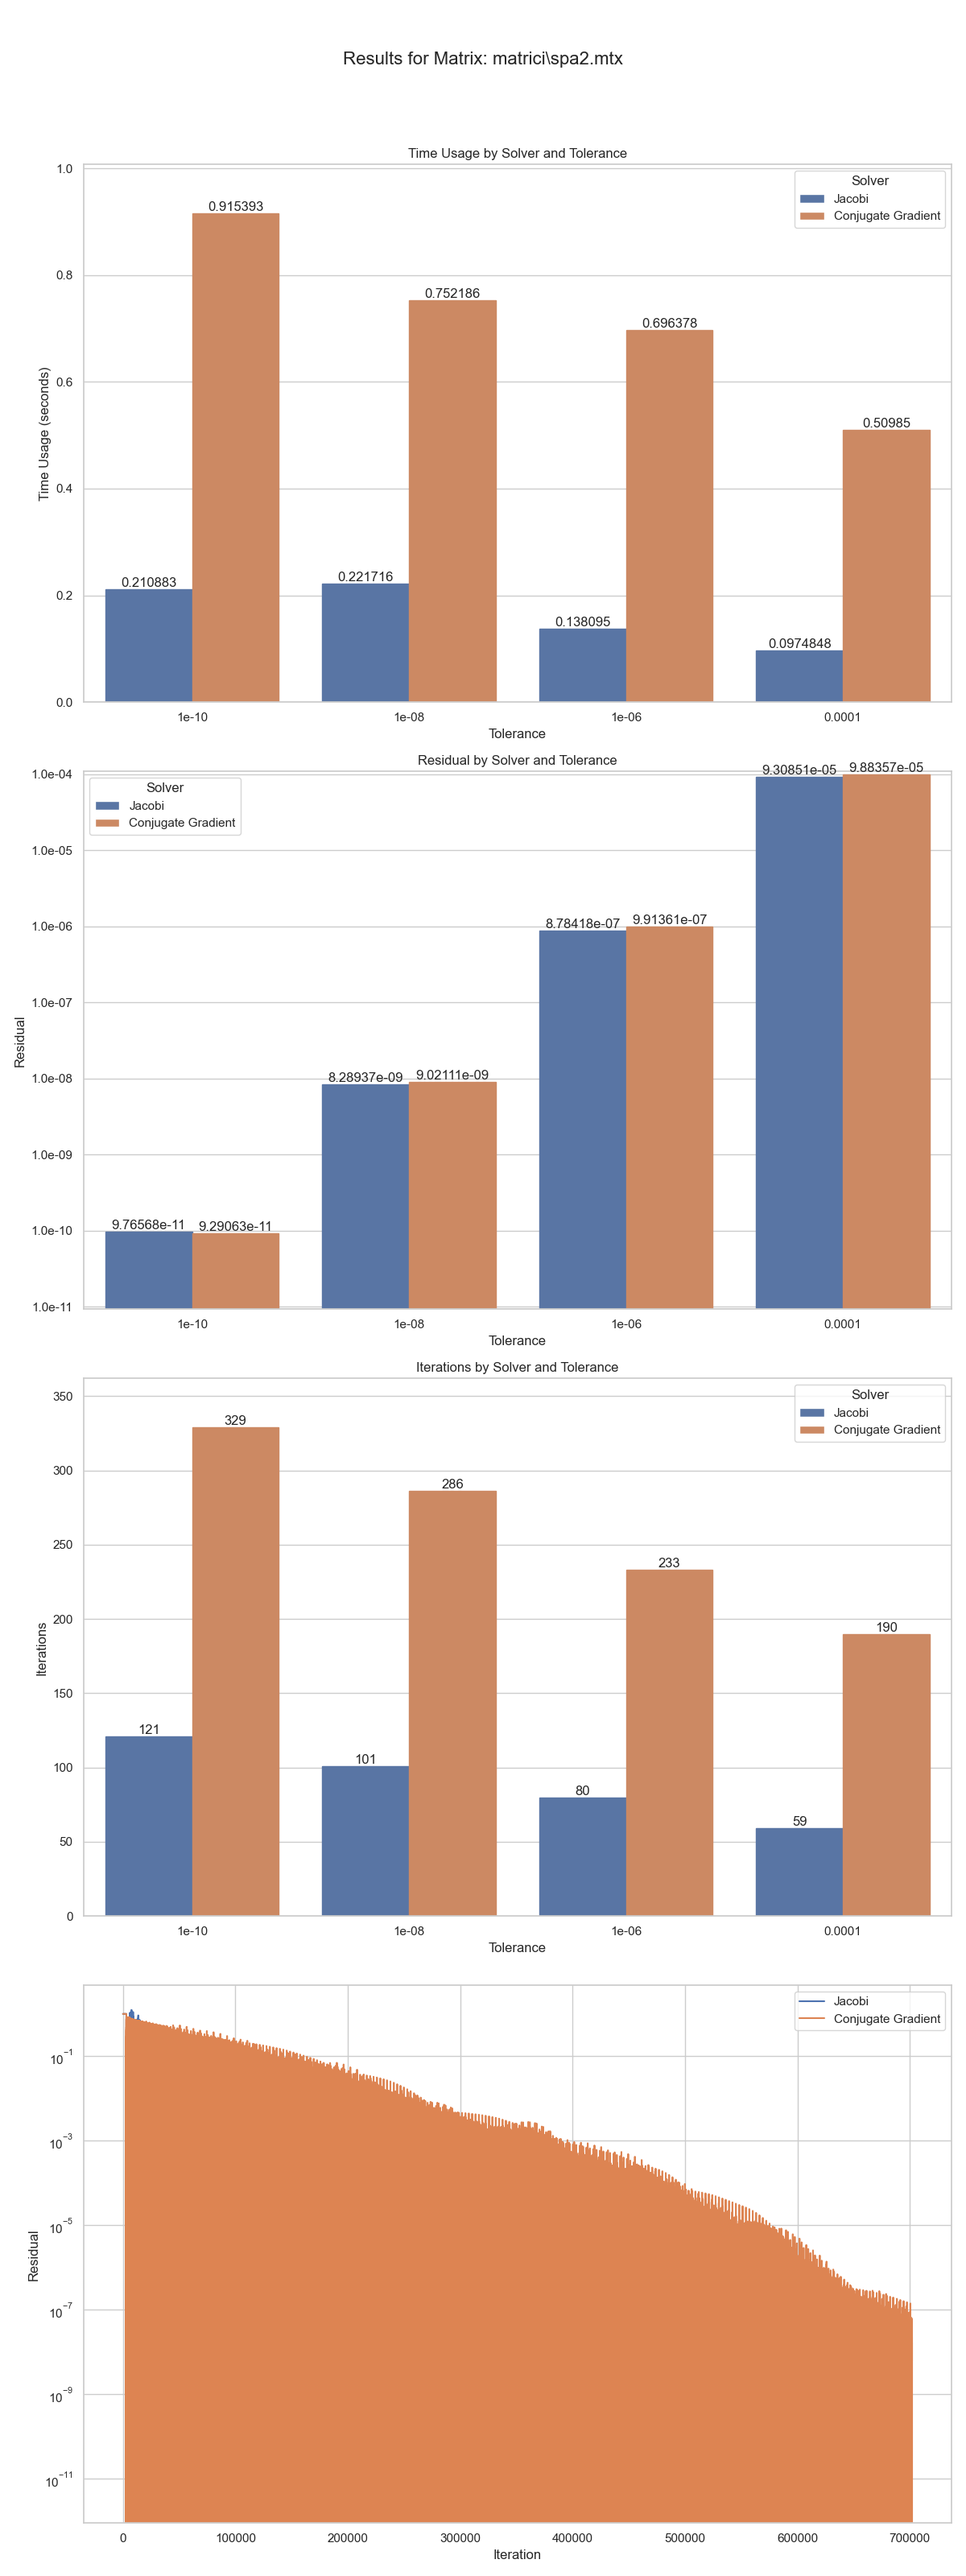
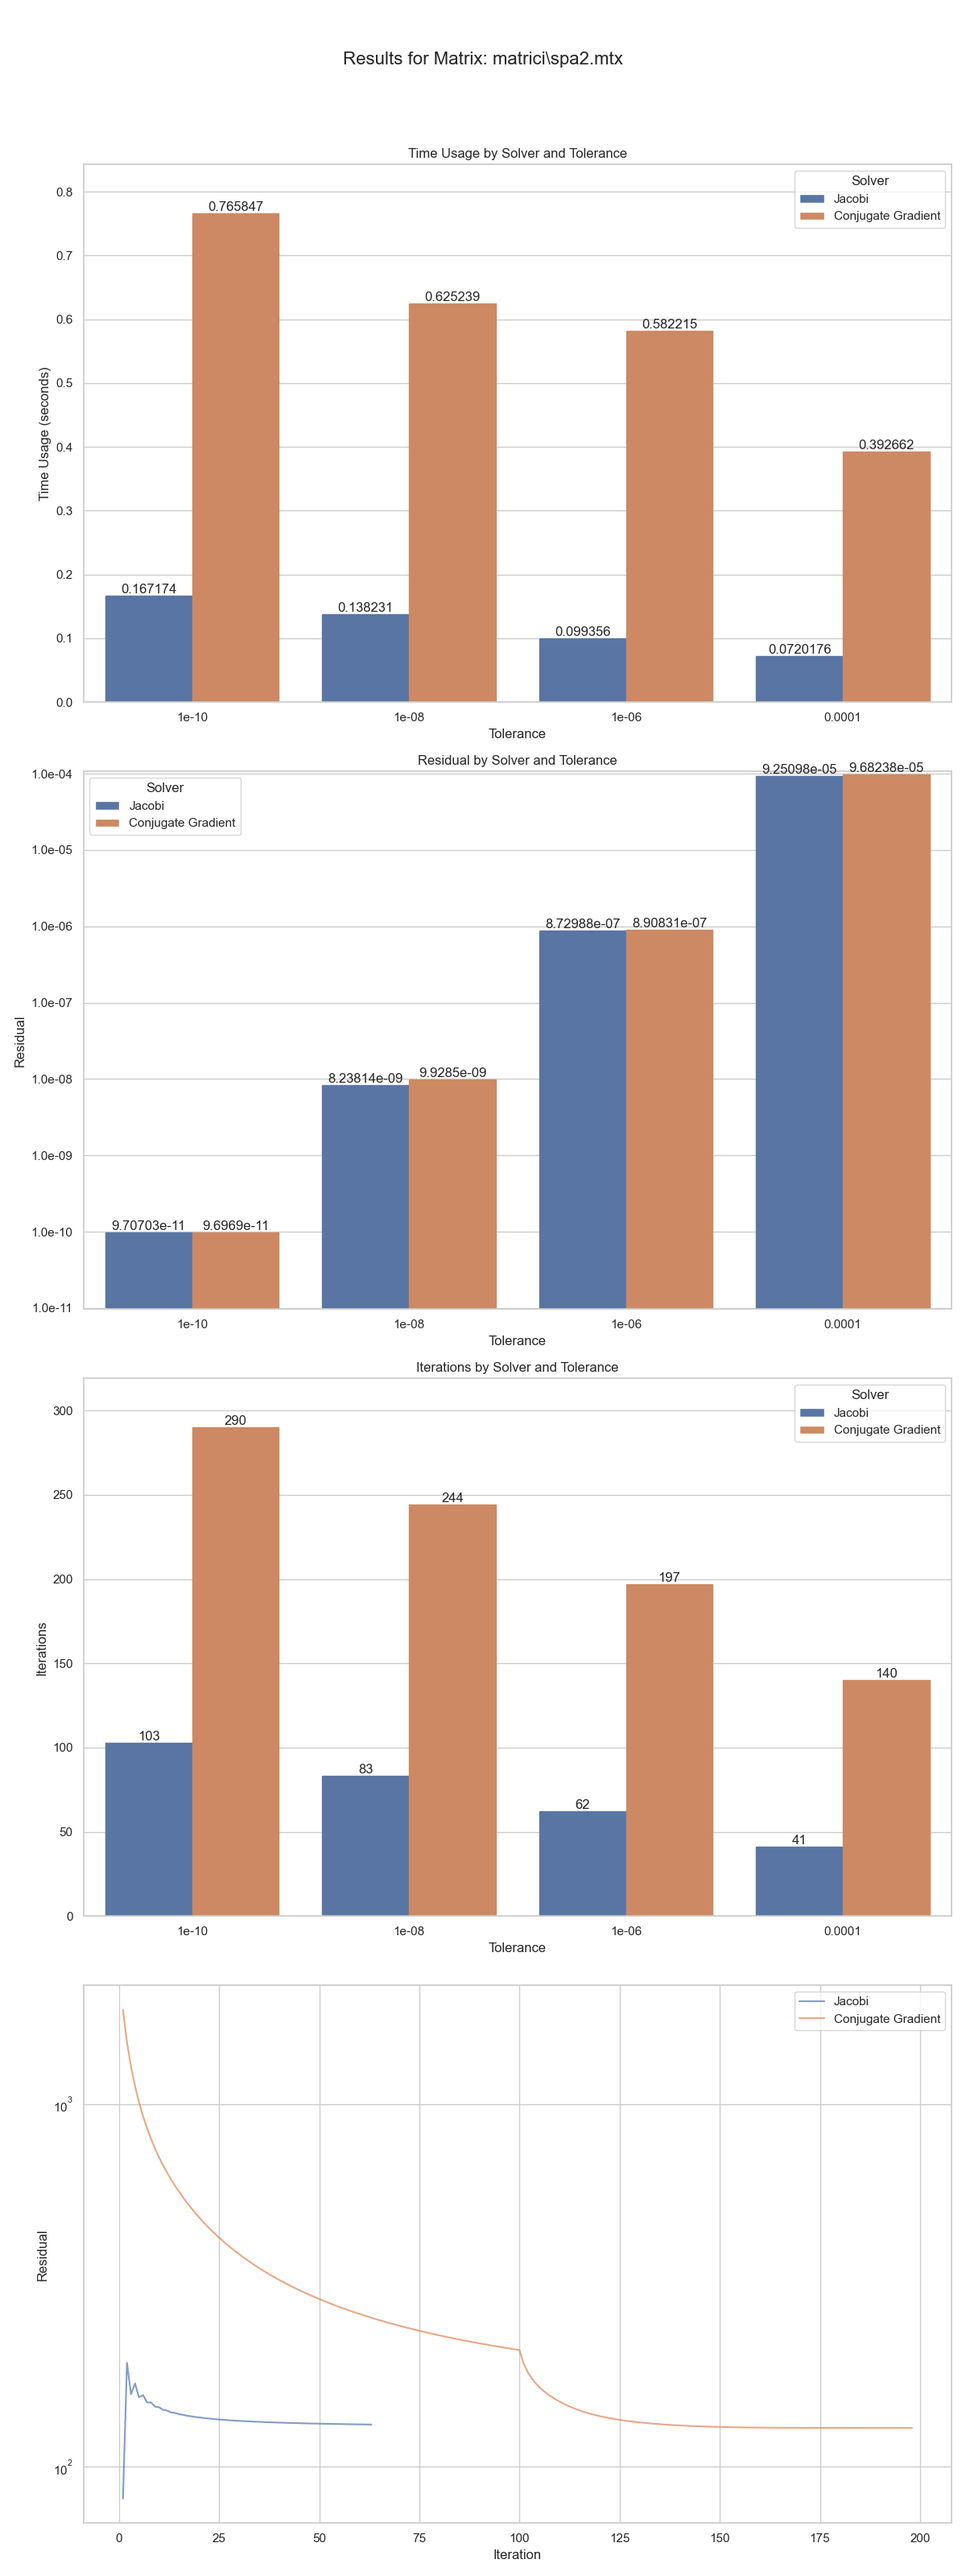
updateted error calculation and chart

diff --git a/Executer.py b/Executer.py
@@ -7,14 +7,13 @@ class Executer(ABC):
     def __init__(self, matrix: csc_matrix, tol: float, iterations: int = 20000):
         self.matrix = matrix
         self.x = np.zeros(matrix.shape[0])  # Correct shape initialization
+        self.x_optimal = np.ones(matrix.shape[0])
         self.tol = tol
         self.iterations = iterations
         self.b = np.ones(matrix.shape[0])  # Correct shape initialization
         self.counter = 0
         self.b = np.array(self.b, dtype=np.float64)
         self.x = np.array(self.x, dtype=np.float64)
-        
-        # Assume self.diagonal_inv is precomputed and correctly initialized
         self.diagonal_inv = 1.0 / self.matrix.diagonal()
 
     def method_execution(self):
@@ -23,8 +22,8 @@ class Executer(ABC):
 
         for self.counter in range(self.iterations):
             self.x, residual_vector = self.update_function()
-            list_of_residual.append(residual_vector)
-            residual_norm = np.linalg.norm(residual_vector)
+            list_of_residual.append(self.get_error())
+            residual_norm = np.linalg.norm(residual_vector)/np.linalg.norm(self.b)
             if residual_norm < self.tol:
                 print(f'{self.__class__.__name__}: Converged with residual norm {residual_norm}')
                 break
@@ -36,3 +35,6 @@ class Executer(ABC):
     @abstractmethod
     def update_function(self):
         pass
+    
+    def get_error(self):
+         return np.divide(np.linalg.norm(self.x - self.x_optimal), np.linalg.norm(self.x))

diff --git a/solver_runner.py b/solver_runner.py
@@ -161,9 +161,12 @@ def plot_results(df, specific_tolerance=1e-6):
                     residuals = residuals.flatten()  # Ensure it's flattened to 1D array
                     solver_residuals.extend(residuals)
 
+                # Smooth the residuals
+                solver_residuals = pd.Series(solver_residuals).rolling(window=100, min_periods=1).mean().values
+
                 # Plot residuals for the solver
                 iterations = np.arange(1, len(solver_residuals) + 1)
-                axs[3].plot(iterations, solver_residuals, label=f'{solver_name}')
+                axs[3].plot(iterations, solver_residuals, label=f'{solver_name}', alpha=0.7)
 
             axs[3].set_ylabel('Residual')
             axs[3].set_xlabel('Iteration')
@@ -176,6 +179,7 @@ def plot_results(df, specific_tolerance=1e-6):
         plot_path = os.path.join(RESULTS_DIR, f'{os.path.basename(matrix)}_results.png')
         plt.savefig(plot_path)
         plt.close(fig)
+
 if __name__ == "__main__":
     results = run_matrix_solvers()
     data = parse_data(results)

diff --git a/JacobiExecuter.py b/JacobiExecuter.py
@@ -3,7 +3,7 @@ from Executer import Executer
 import numpy as np
 
 class JacobiExecuter(Executer):
-    def __init__(self, matrix: csc_matrix, tol: float, iterations: int = 20000):
+    def __init__(self, matrix: csc_matrix, tol: float, iterations: int):
         super().__init__(matrix, tol, iterations)
         self.diagonal_inv = 1.0 / matrix.diagonal()  # Inverse of the diagonal elements
     
